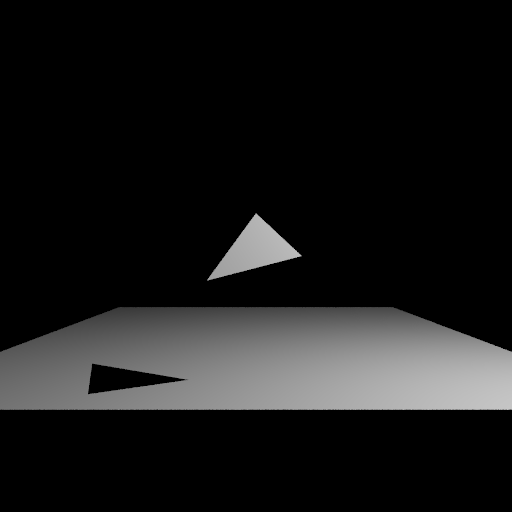
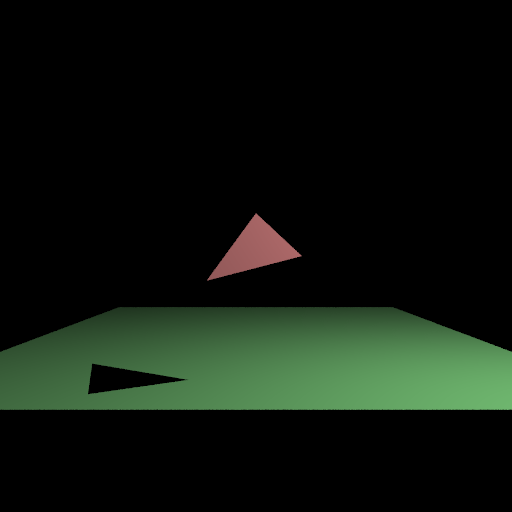
Added material

Changed region(s): [[0.0, 0.5938, 1.0, 0.8125], [0.4062, 0.4062, 0.5938, 0.5625]]

diff --git a/src/yamcr.cpp b/src/yamcr.cpp
@@ -10,6 +10,7 @@
 #include "shapes/trianglemesh.h"
 #include "lights/point.h"
 #include "samplers/random.h"
+#include "bsdfs/lambertian.h"
 #include "spectrum.h"
 #include "film.h"
 #include "intersection.h"
@@ -22,7 +23,7 @@ const Point c_CameraPos = Point(0.f, 0.f, -5.f);
 const Vector c_CameraDir = Vector(0.f, 0.f, 1.f);
 const Vector c_CameraUp = Vector(0.f, 1.f, 0.f);
 
-void CreateShapes(std::vector<std::shared_ptr<Shape>> &shapes) {
+void CreatePrimitives(std::vector<std::shared_ptr<Primitive>> &prims) {
     {
         std::vector<PointA> vertices;
         vertices.push_back(PointA( 0.0f,  0.5f,  1.0f));
@@ -30,9 +31,13 @@ void CreateShapes(std::vector<std::shared_ptr<Shape>> &shapes) {
         vertices.push_back(PointA( 0.5f,  0.0f,  0.6f));
         std::vector<Triangle> triangles;
         triangles.push_back(Triangle(0, 1, 2));
-        std::shared_ptr<TriangleMesh> mesh = 
+        std::shared_ptr<TriangleMesh> shape = 
             std::make_shared<TriangleMesh>(vertices, triangles);
-        shapes.push_back(mesh);
+        std::shared_ptr<BSDF> bsdf = 
+            std::make_shared<Lambertian>(RGBSpectrum(0.75f, 0.25f, 0.25f));
+        std::shared_ptr<Primitive> prim =
+            std::make_shared<Primitive>(shape, bsdf);
+        prims.push_back(prim);
     }
 
     {
@@ -44,25 +49,29 @@ void CreateShapes(std::vector<std::shared_ptr<Shape>> &shapes) {
         std::vector<Triangle> triangles;
         triangles.push_back(Triangle(0, 1, 2));
         triangles.push_back(Triangle(0, 2, 3));
-        std::shared_ptr<TriangleMesh> mesh = 
+        std::shared_ptr<TriangleMesh> shape = 
             std::make_shared<TriangleMesh>(vertices, triangles);
-        shapes.push_back(mesh);
+        std::shared_ptr<BSDF> bsdf = 
+            std::make_shared<Lambertian>(RGBSpectrum(0.25f, 0.75f, 0.25f));
+        std::shared_ptr<Primitive> prim =
+            std::make_shared<Primitive>(shape, bsdf);
+        prims.push_back(prim);
     }
 }
 
 void CreateLights(std::vector<std::shared_ptr<Light>> &lights) {
     lights.push_back(std::make_shared<PointLight>(
                 Point(4.f, 4.f, -1.0f),
-                RGBSpectrum(20.f, 20.f, 20.f)));
+                RGBSpectrum(70.f, 70.f, 70.f)));
 }
 
 int main(int argc, char *argv[]) {
     rtcInit(NULL);
-    std::vector<std::shared_ptr<Shape>> shapes;
+    std::vector<std::shared_ptr<Primitive>> prims;
     std::vector<std::shared_ptr<Light>> lights;
-    CreateShapes(shapes);
+    CreatePrimitives(prims);
     CreateLights(lights);
-    Scene scene(shapes);
+    Scene scene(prims);
     Camera camera(c_CameraPos, c_CameraDir, c_CameraUp, c_XRes, c_YRes);
     Film film(c_XRes, c_YRes);
     RandomSampler random;
@@ -78,8 +87,8 @@ int main(int argc, char *argv[]) {
                     for(auto it = lights.begin(); it != lights.end(); it++) {
                         Ray shadowRay;
                         RGBSpectrum Le = (*it)->SampleDirect(isect, shadowRay);
-                        if(!scene.Occluded(shadowRay)) {
-                            L = Le*AbsDot(isect.n, shadowRay.dir);
+                        if(!scene.Occluded(shadowRay)) {                                                           
+                            L = Le*isect.bsdf->Eval(-ray.dir, shadowRay.dir)*AbsDot(isect.n, shadowRay.dir);
                         }                        
                     }                
                 } 

diff --git a/src/scene.cpp b/src/scene.cpp
@@ -3,12 +3,13 @@
 
 namespace yamcr {
 
-Scene::Scene(const std::vector<std::shared_ptr<Shape>> &shapes) {
+Scene::Scene(const std::vector<std::shared_ptr<Primitive>> &prims) :
+    m_Primitives(prims) {
     m_RtcScene = rtcNewScene(
             RTC_SCENE_STATIC, RTC_INTERSECT1);
 
-    for(auto it = shapes.begin(); it != shapes.end(); it++) 
-        (*it)->Register(m_RtcScene);
+    for(auto it = m_Primitives.begin(); it != m_Primitives.end(); it++) 
+        (*it)->shape->Register(m_RtcScene);
 
     rtcCommit(m_RtcScene);
 }
@@ -22,6 +23,7 @@ bool Scene::Intersect(Ray &ray, Intersection *isect) {
     if(ray.geomID != -1) {
         isect->p = ray.org + ray.dir * ray.tfar;
         isect->n = Normalize(ray.Ng);
+        isect->bsdf = m_Primitives[ray.geomID]->bsdf;
         isect->rayEpsilon = 1e-3f*ray.tfar;
         return true;
     }

diff --git a/src/scene.h b/src/scene.h
@@ -3,7 +3,7 @@
 
 #include "ray.h"
 #include "intersection.h"
-#include "shapes/shape.h"
+#include "primitive.h"
 #include <vector>
 #include <memory>
 #include <embree2/rtcore.h>
@@ -12,13 +12,14 @@ namespace yamcr {
     
 class Scene {
 public:
-    Scene(const std::vector<std::shared_ptr<Shape>> &shapes);
+    Scene(const std::vector<std::shared_ptr<Primitive>> &prims);
     ~Scene();
 
     bool Intersect(Ray &ray, Intersection *isect);
     bool Occluded(Ray &ray);
 private:
     RTCScene m_RtcScene;
+    std::vector<std::shared_ptr<Primitive>> m_Primitives;
 };
 
 }

diff --git a/src/primitive.h b/src/primitive.h
@@ -1,0 +1,20 @@
+#ifndef YAMCR_PRIMITIVE_H__
+#define YAMCR_PRIMITIVE_H__
+
+#include "shapes/shape.h"
+#include "bsdfs/bsdf.h"
+#include <memory>
+
+namespace yamcr {
+
+struct Primitive {
+    Primitive(const std::shared_ptr<Shape> shape,
+              const std::shared_ptr<BSDF> bsdf) :
+        shape(shape), bsdf(bsdf) {}
+    const std::shared_ptr<Shape> shape;
+    const std::shared_ptr<BSDF> bsdf;
+};
+
+}
+
+#endif //YAMCR_PRIMITIVE_H__

diff --git a/src/bsdfs/lambertian.h b/src/bsdfs/lambertian.h
@@ -1,0 +1,19 @@
+#ifndef YAMCR_BSDFS_LAMBERTIAN_H__
+#define YAMCR_BSDFS_LAMBERTIAN_H__
+
+#include "bsdf.h"
+
+namespace yamcr {
+
+class Lambertian : public BSDF {
+public:
+    Lambertian(const RGBSpectrum &Kd)
+        : m_Kd(Kd) {}
+    RGBSpectrum Eval(const Vector &wi, const Vector &wo) const;
+private:
+    RGBSpectrum m_Kd;
+};
+
+}
+
+#endif //YAMCR_BSDFS_LAMBERTIAN_H__

diff --git a/src/bsdfs/bsdf.h b/src/bsdfs/bsdf.h
@@ -1,0 +1,16 @@
+#ifndef YAMCR_BSDFS_BSDF_H__
+#define YAMCR_BSDFS_BSDF_H__
+
+#include "spectrum.h"
+#include "vector.h"
+
+namespace yamcr {
+
+class BSDF {
+public:
+    virtual RGBSpectrum Eval(const Vector &wi, const Vector &wo) const = 0;
+};
+
+}
+
+#endif //YAMCR_BSDFS_BSDF_H__

diff --git a/src/intersection.h b/src/intersection.h
@@ -3,12 +3,15 @@
 
 #include "point.h"
 #include "normal.h"
+#include "bsdfs/bsdf.h"
+#include <memory>
 
 namespace yamcr {
 
 struct Intersection {    
     Point p;
     Normal n;
+    std::shared_ptr<BSDF> bsdf;
     float rayEpsilon;
 };
 

diff --git a/src/bsdfs/lambertian.cpp b/src/bsdfs/lambertian.cpp
@@ -1,0 +1,11 @@
+#include "lambertian.h"
+
+#include <cmath>
+
+namespace yamcr {
+
+RGBSpectrum Lambertian::Eval(const Vector &wi, const Vector &wo) const {
+    return m_Kd / (float)M_PI;
+}
+
+}
